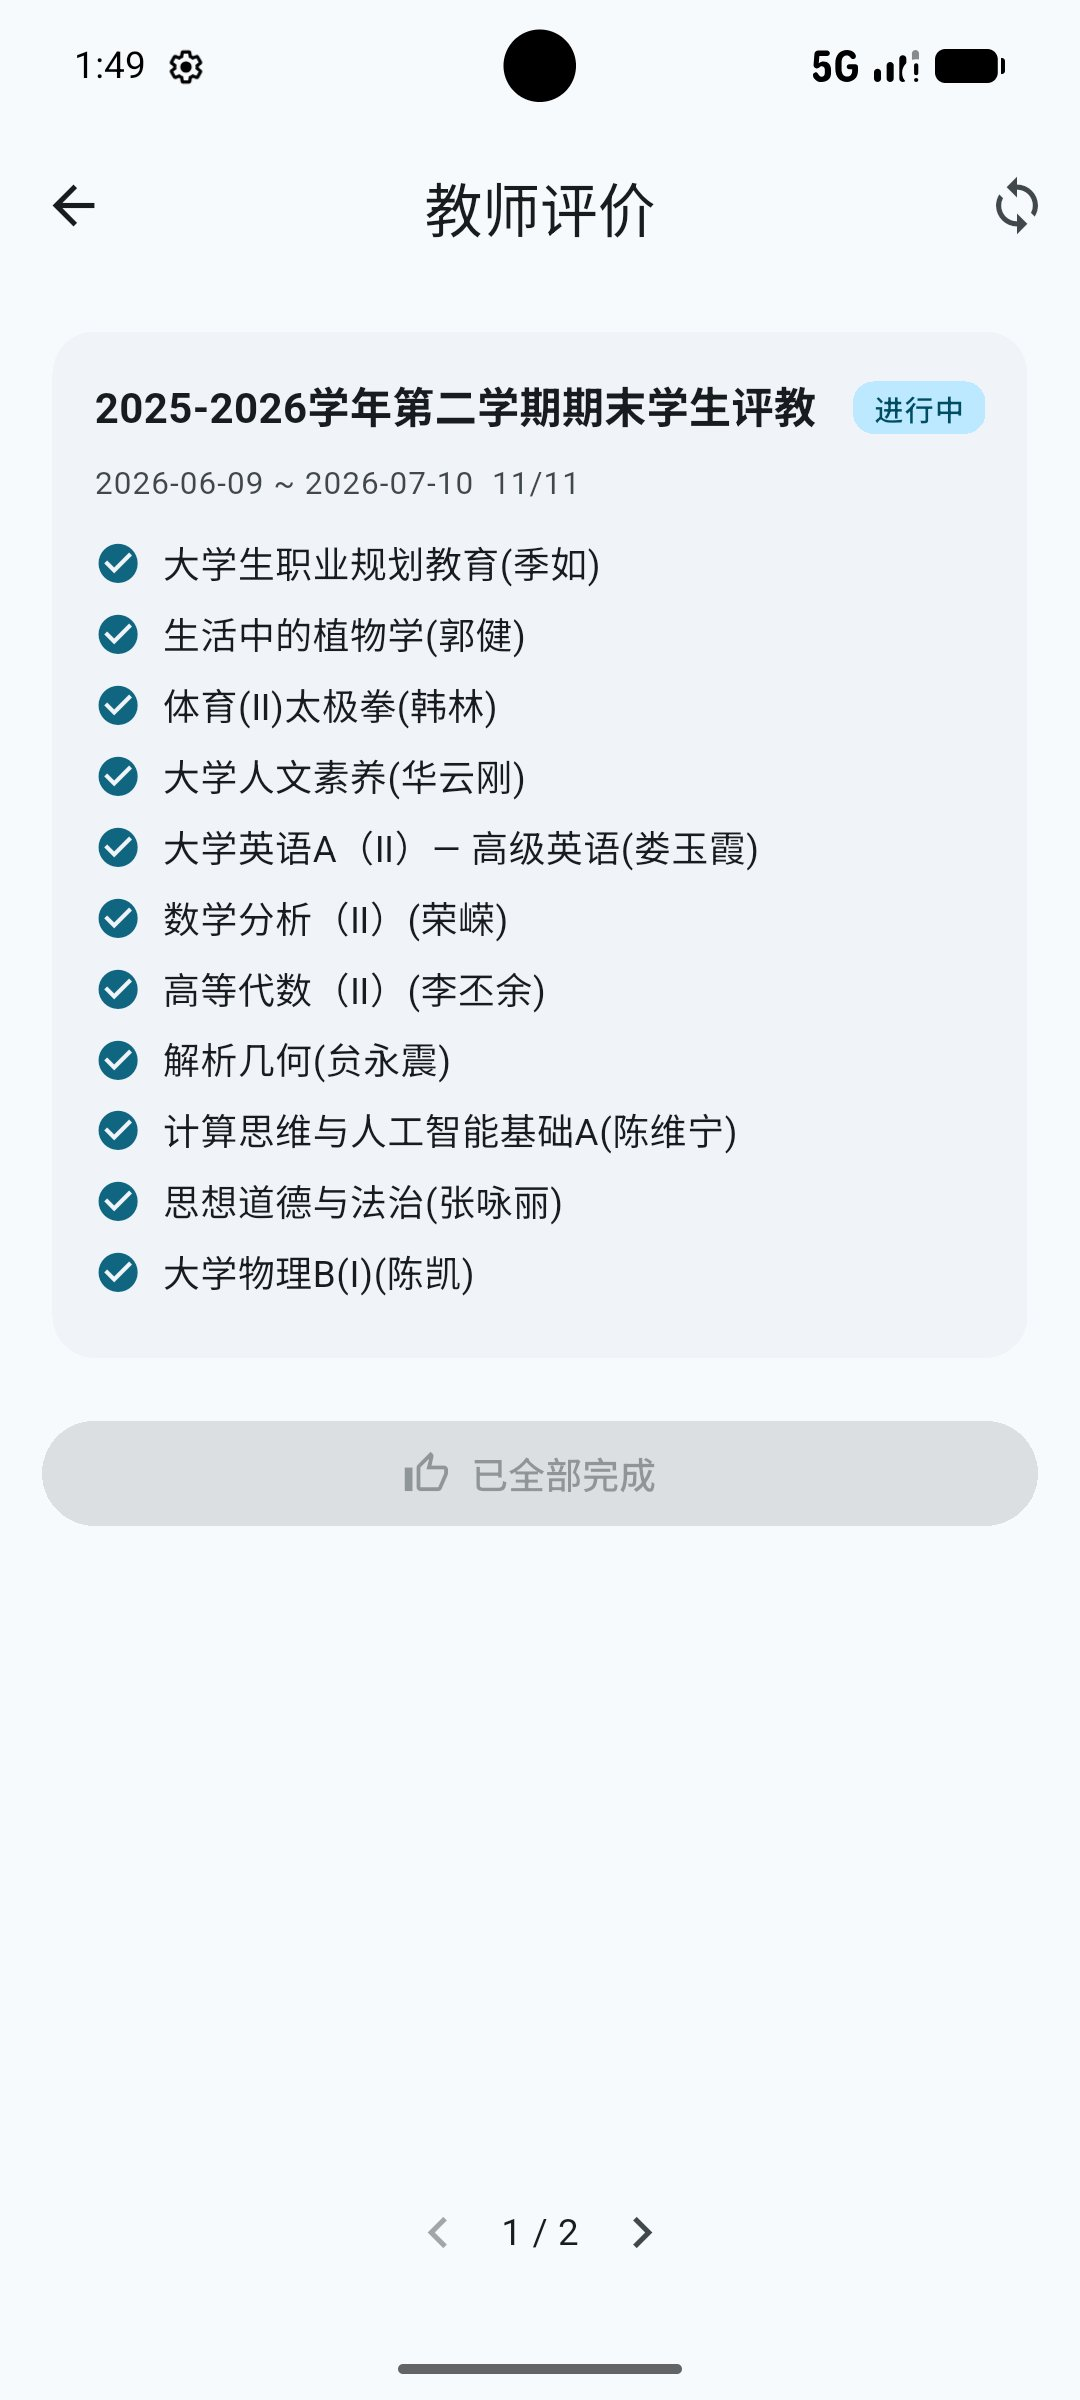
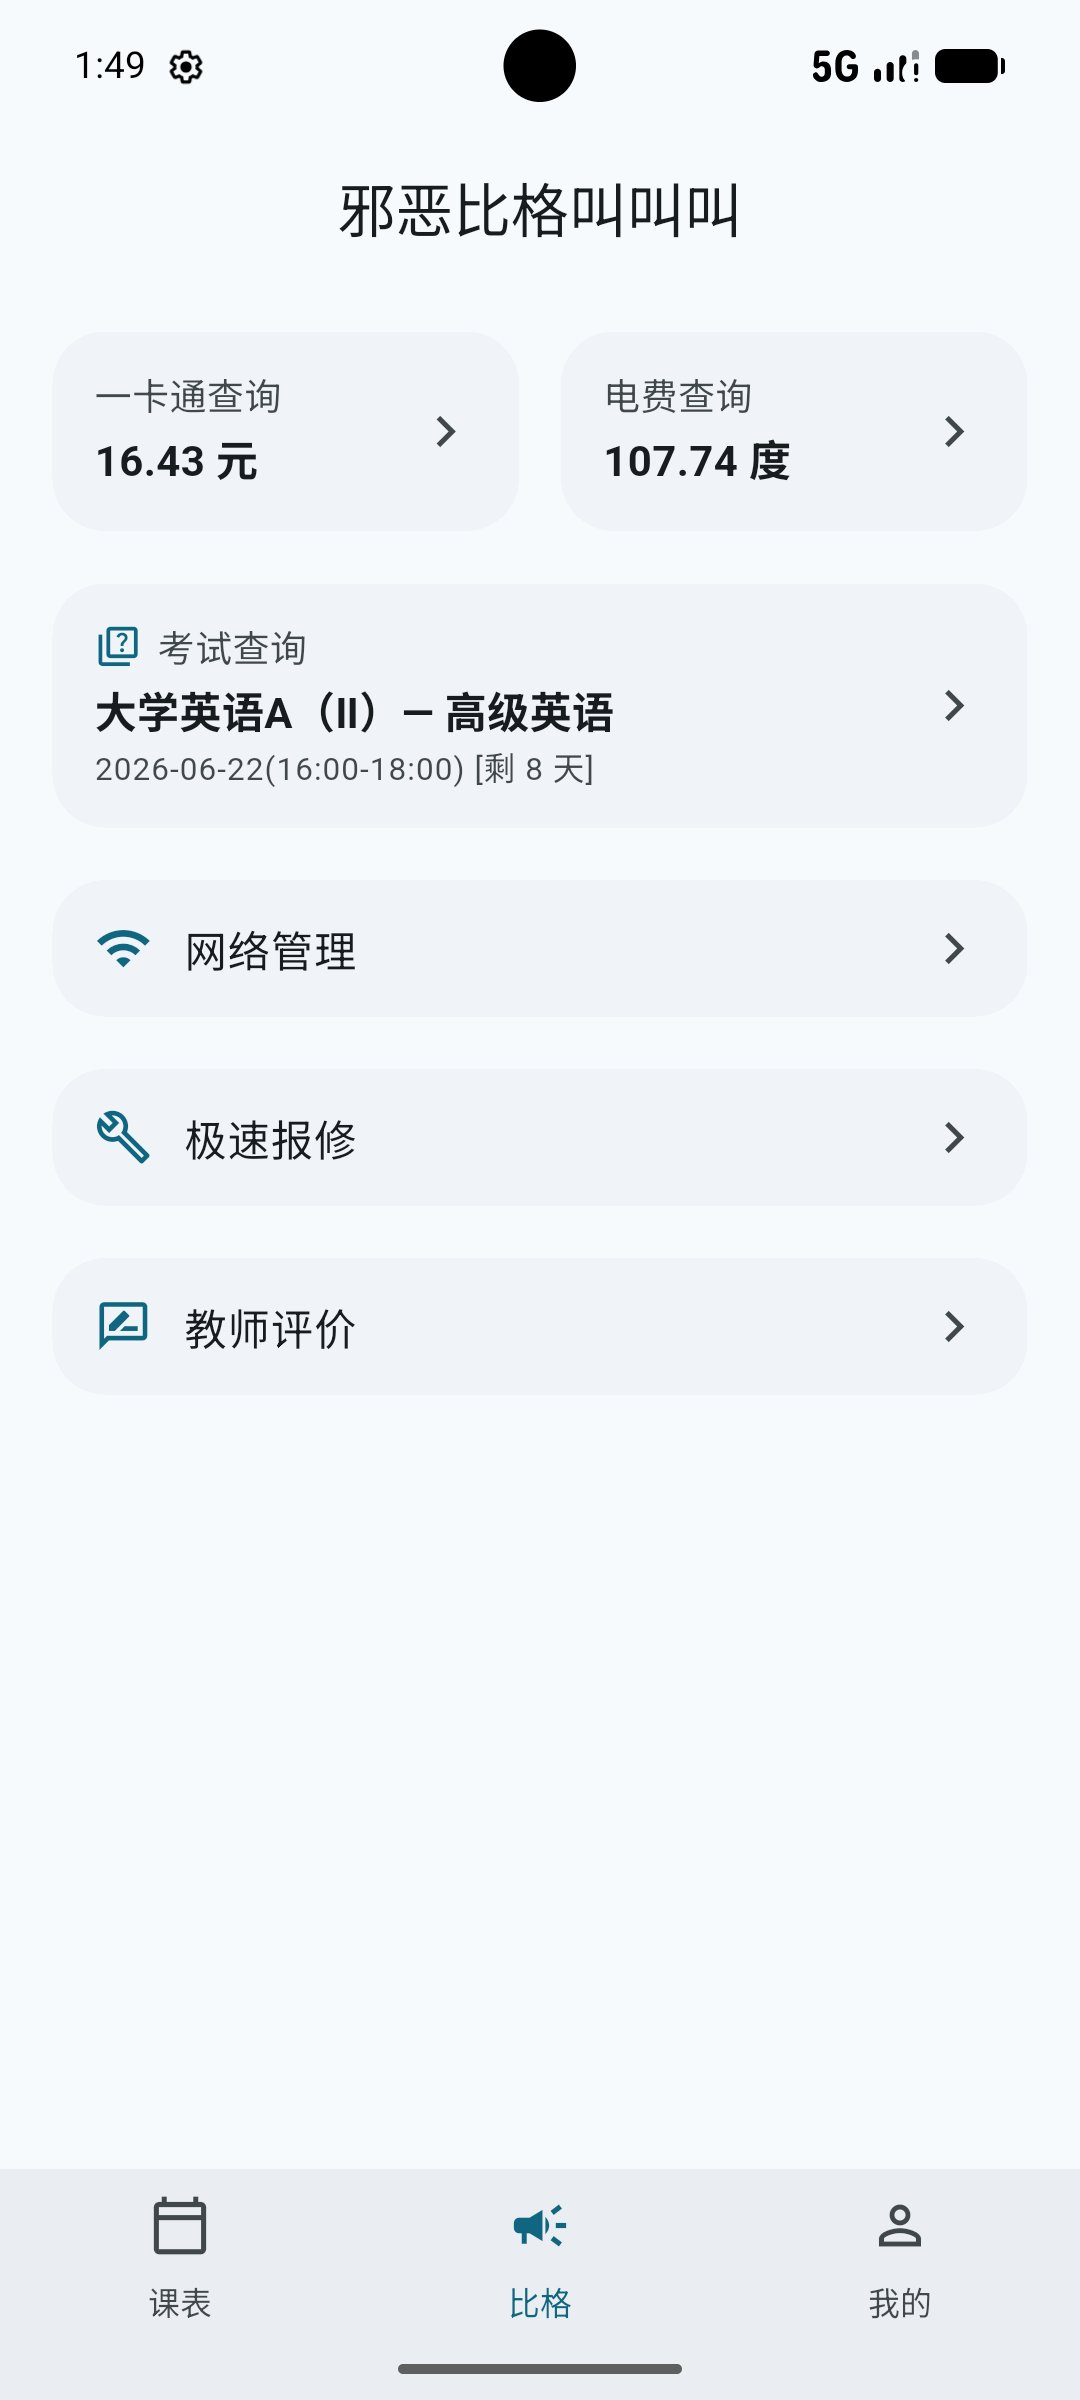
Adjust screenshot sizes and update images
Reduce displayed screenshot width in README from 210px to 180px and remove the reference to screenshots/5.jpg (file deleted). Replace binary assets screenshots/1.jpg and screenshots/4.jpg with updated images. No code or functionality changes.

diff --git a/README.md b/README.md
@@ -27,11 +27,10 @@
 
 ## 软件截图
 <p align="center">
-  <img src="https://github.com/lose2me/xzitpocket/blob/main/screenshots/1.jpg" width="210px" />
-  <img src="https://github.com/lose2me/xzitpocket/blob/main/screenshots/2.jpg" width="210px" />
-  <img src="https://github.com/lose2me/xzitpocket/blob/main/screenshots/3.jpg" width="210px" />
-  <img src="https://github.com/lose2me/xzitpocket/blob/main/screenshots/4.jpg" width="210px" />
-  <img src="https://github.com/lose2me/xzitpocket/blob/main/screenshots/5.jpg" width="210px" />
+  <img src="https://github.com/lose2me/xzitpocket/blob/main/screenshots/1.jpg" width="180px" />
+  <img src="https://github.com/lose2me/xzitpocket/blob/main/screenshots/2.jpg" width="180px" />
+  <img src="https://github.com/lose2me/xzitpocket/blob/main/screenshots/3.jpg" width="180px" />
+  <img src="https://github.com/lose2me/xzitpocket/blob/main/screenshots/4.jpg" width="180px" />
 </p>
 
 
